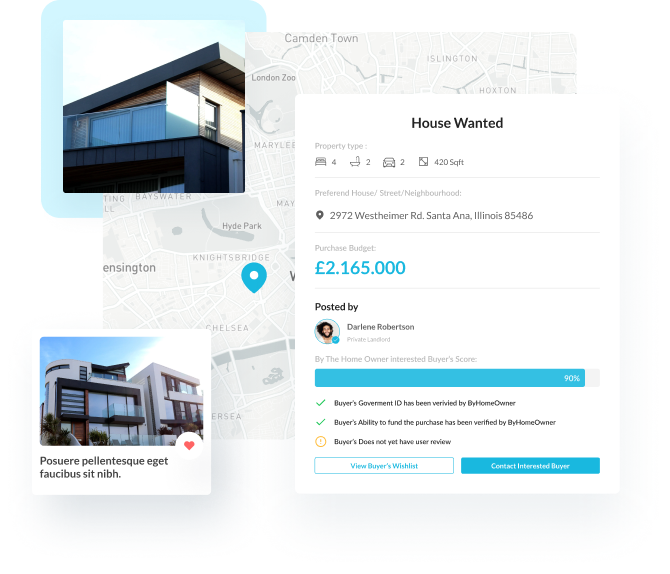
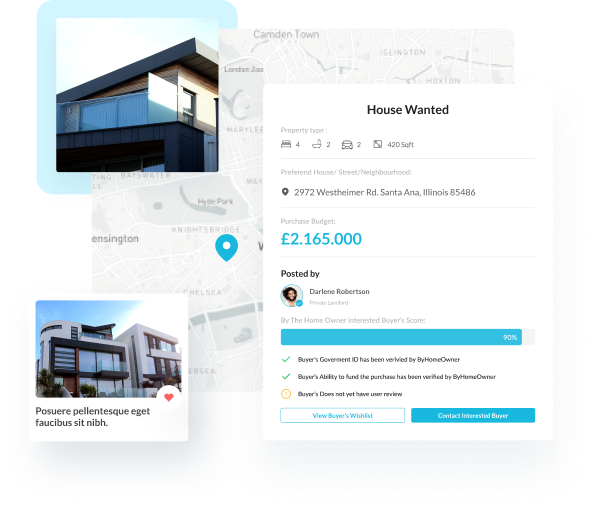
123

diff --git a/index.html b/index.html
@@ -119,7 +119,7 @@
                         </div>
                         <div class="book__body">
                             <div class="book__body-inner tabEvent active" id="book-1">
-                                <div class="book__body-inner-row">
+                                <div class="book__body-inner-row primary">
                                     <div class="book__body-inner-row-column">
                                         <div class="input__outer">
                                             <label for="">Property address/ /Town/Post Code</label>
@@ -156,18 +156,6 @@
                                                     <option value="1">£1.000 - £2.000</option>
                                                     <option value="2">£1.000 - £2.000</option>
                                                     <option value="3">£1.000 - £2.000</option>
-                                                </select>
-                                            </div>
-                                        </div>
-                                    </div>
-                                    <div class="book__body-inner-row-column">
-                                        <div class="select__outer">
-                                            <label>Rental Duration</label>
-                                            <div class="custom-select">
-                                                <select>
-                                                    <option value="1">Monthly</option>
-                                                    <option value="2">Dayly</option>
-                                                    <option value="3">Weekly</option>
                                                 </select>
                                             </div>
                                         </div>
@@ -241,8 +229,8 @@
                                 </div>
                             </div>
                             <div class="book__body-inner tabEvent" id="book-3">
-                                <div class="book__body-inner-row">
-                                    <div class="book__body-inner-row-column wdith-45%">
+                                <div class="book__body-inner-row primary">
+                                    <div class="book__body-inner-row-column">
                                         <div class="input__outer">
                                             <label for="">Property address/ /Town/Post Code</label>
                                             <input type="text" placeholder="London">
@@ -278,18 +266,6 @@
                                                     <option value="1">£1.000 - £2.000</option>
                                                     <option value="2">£1.000 - £2.000</option>
                                                     <option value="3">£1.000 - £2.000</option>
-                                                </select>
-                                            </div>
-                                        </div>
-                                    </div>
-                                    <div class="book__body-inner-row-column">
-                                        <div class="select__outer">
-                                            <label>Rental Duration</label>
-                                            <div class="custom-select">
-                                                <select>
-                                                    <option value="1">Monthly</option>
-                                                    <option value="2">Dayly</option>
-                                                    <option value="3">Weekly</option>
                                                 </select>
                                             </div>
                                         </div>
@@ -1887,7 +1863,7 @@
             <div class="wanted__inner">
                 <div class="wanted__inner-content">
                     <h5 class="bold wow fadeInUp" data-wow-duration=".6s" data-wow-delay=".2s">
-                        Create Your Property Wanted Ad
+                        Create Your Property <br> Wanted Ad
                     </h5>
                     <p class="regular wow fadeInUp" data-wow-duration=".6s" data-wow-delay=".3s">
                         Morbi hac lacinia eu blandit a. Leo lorem consectetur id sit. Nec mauris feugiat mi libero.
@@ -2036,7 +2012,7 @@
                             property
                         </p>
                         <div class="form__inner">
-                            <div class="form__inner-tab formItem active" id="step-1">
+                            <div class="form__inner-tab formItem " id="step-1">
                                 <div class="btn__secondary formBtn " data-tab="#step-2">
                                     Request Free Valuation
                                 </div>
@@ -2469,16 +2445,16 @@
                                     </div>
                                 </div>
                             </div>
-                            <div class="form__inner-tab formItem " id="step-8">
+                            <div class="form__inner-tab formItem active" id="step-8">
                                 <div class="form__inner-tab-window">
                                     <div class="form__inner-tab-window-title">
                                         Verify Phone number
                                     </div>
                                     <ul class="form__inner-tab-window-header">
-                                        <li class="don formBtn" data-tab="#step-2">1</li>
-                                        <li class="don formBtn" data-tab="#step-3">2</li>
-                                        <li class="don formBtn" data-tab="#step-4">3</li>
-                                        <li class="don formBtn" data-tab="#step-5">4</li>
+                                        <li class="done formBtn" data-tab="#step-2">1</li>
+                                        <li class="done formBtn" data-tab="#step-3">2</li>
+                                        <li class="done formBtn" data-tab="#step-4">3</li>
+                                        <li class="done formBtn" data-tab="#step-5">4</li>
                                         <li class="blue">5</li>
                                         <li>6</li>
                                         <li>7</li>

diff --git a/assets/css/main.css b/assets/css/main.css
@@ -642,6 +642,36 @@ li {
   height: 43px;
   margin-top: 20px;
 }
+.book__body-inner-row.primary .book__body-inner-row-column:nth-child(2) {
+  width: 55%;
+  margin: 0;
+}
+.book__body-inner-row.primary .book__body-inner-row-column:nth-child(3) {
+  width: calc(66.6% - 20px);
+}
+.book__body-inner-row.primary .book__body-inner-row-column:nth-child(3) .select__outer {
+  width: 100%;
+  margin: 0;
+}
+.book__body-inner-row.primary .book__body-inner-row-column:nth-child(4) {
+  width: calc(33.3% - 20px);
+  margin: 10px;
+}
+.book__body-inner-row.primary .book__body-inner-row-column:nth-child(4) .btn__secondary {
+  display: -webkit-box;
+  display: -ms-flexbox;
+  display: flex;
+  width: 100%;
+  -webkit-box-pack: center;
+      -ms-flex-pack: center;
+          justify-content: center;
+  -webkit-box-align: center;
+      -ms-flex-align: center;
+          align-items: center;
+  padding: 0;
+  height: 43px;
+  margin-top: 20px;
+}
 
 @keyframes book {
   0% {
@@ -2807,7 +2837,6 @@ li {
   left: 0;
   width: 100%;
   height: 100%;
-  z-index: -2;
   border-radius: 20px;
   overflow: hidden;
 }
@@ -2816,16 +2845,6 @@ li {
   height: 100%;
   object-fit: cover;
   -o-object-fit: cover;
-}
-.app__inner-image::before {
-  position: absolute;
-  content: "";
-  top: 0;
-  left: 0;
-  width: 100%;
-  height: 100%;
-  background: linear-gradient(257.4deg, #19b8df -47.25%, rgba(25, 184, 223, 0.04) 121.53%);
-  opacity: 0.5;
 }
 .app__inner-content {
   width: 60%;

diff --git a/assets/css/components/2-layout/book.scss b/assets/css/components/2-layout/book.scss
@@ -75,6 +75,42 @@
             }
           }
         }
+        &.primary {
+          .book {
+            &__body {
+              &-inner {
+                &-row {
+                  &-column {
+                    &:nth-child(2) {
+                      width: 55%;
+                      margin: 0;
+                    }
+                    &:nth-child(3) {
+                      width: calc(66.6% - 20px);
+                      .select__outer {
+                        width: 100%;
+                        margin: 0;
+                      }
+                    }
+                    &:nth-child(4) {
+                      width: calc(33.3% - 20px);
+                      margin: 10px;
+                      .btn__secondary {
+                        display: flex;
+                        width: 100%;
+                        justify-content: center;
+                        align-items: center;
+                        padding: 0;
+                        height: 43px;
+                        margin-top: 20px;
+                      }
+                    }
+                  }
+                }
+              }
+            }
+          }
+        }
       }
     }
   }

diff --git a/assets/css/components/3-pages/index.scss b/assets/css/components/3-pages/index.scss
@@ -452,25 +452,10 @@
       left: 0;
       width: 100%;
       height: 100%;
-      z-index: -2;
       border-radius: 20px;
       overflow: hidden;
       img {
         @include fullImage;
-      }
-      &::before {
-        position: absolute;
-        content: "";
-        top: 0;
-        left: 0;
-        width: 100%;
-        height: 100%;
-        background: linear-gradient(
-          257.4deg,
-          #19b8df -47.25%,
-          rgba(25, 184, 223, 0.04) 121.53%
-        );
-        opacity: 0.5;
       }
     }
     &-content {
